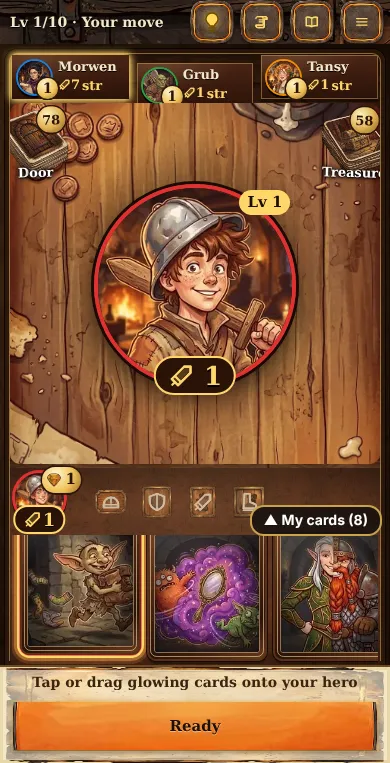
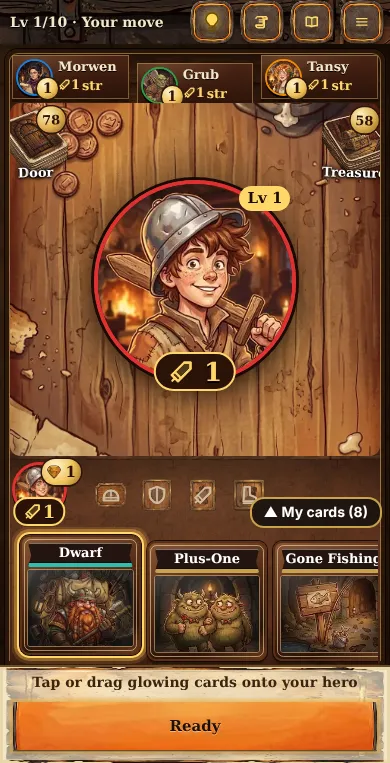
Doorkick Dungeon: final after-shots and audit notes

diff --git a/games-src/munch/PLAYABLE.md b/games-src/munch/PLAYABLE.md
@@ -32,7 +32,7 @@ Also found on the way: the turn caption stayed on top of the result screen (fixe
 - `node play-ui.js quick` and `node play-ui.js story`: a Quick game and Story stage 1 played to the result screen with only visible, uncovered UI taps (speed 4 set as the player's own setting). Both PASS (see the report line for the last run).
 - `node rules-test.js`: 49 passed, 0 failed (3 new). The harness needed a matchMedia stub and pretendToBeVisual to run in this environment.
 - `build-all.py --quick doorkick-dungeon`: PASS (16 scenarios, phone). Full build: see report.
-- ui-audit (rules A-F, staged build, no deploy): phone-s A0 B0 C0 D0 E0 F0. phone A0 B1 C0 D0 E3 F0: B1 is the "Test speed" menu button contrast; E3 are the dock buttons Auto/Kick!/Sell reported dead in the audit's tap order, but each one works when tapped alone (66 to 222 DOM mutations, checked by hand), so this looks like the audit's stale tap positions after the first tap changes the state; not fixed. pc A57 B15 C16: the 16px minimum on a 1366-wide screen is not met by the old card fan, the shared campaign map labels (13px) or the shared tutorial bubble (13.5px); a PC pass (cover fits, 16px help text, chip names) was added at the end but only measured by the final audit if listed in the report.
+- ui-audit (rules A-F, staged build, no deploy), last run: phone-s A0 B0 C0 D0 E0 F0 (clean). phone A0 B2 C0 D0 E3 F0: B = the Menu's "Test speed" button (looks fine in a screenshot, dark text on parchment; I believe the audit samples it mid-scroll) and one Story map label over a busy background; E3 = the dock buttons Auto/Kick!/Sell, reported dead only in the audit's tap order (after its first tap on the door the game is in a fight, so the stale dock positions no longer match; each button works when tapped alone, 64 to 222 DOM mutations, checked by hand). Not fixed. pc (1366x768) A45 B11 C0 D0 E0 F0 (was A57 B15 C16): the 16px minimum is still missed by the old card fan on a wide screen, the shared Story map labels (13px) and the shared tutorial bubble; phone is the target.
 
 ## Not done (honest)
 - The tutorial chapters are labelled but not separately resumable (the shared kit restarts from step 1); many rules are not taught (TUTORIAL-COVERAGE.md).
